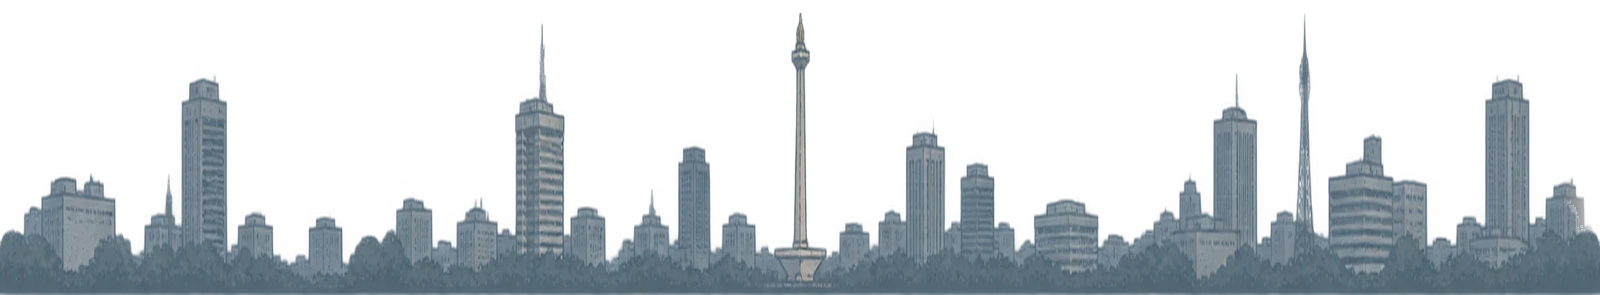
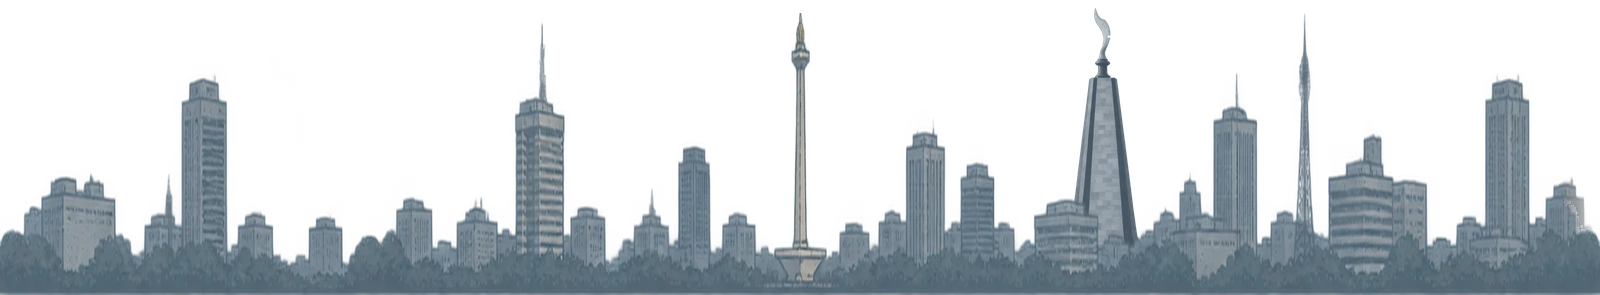
Add Codex's Tugu Kujang skyline, Kopdes and workers, plus street life
- Bring in the new office far-city layer with Tugu Kujang, the Kopdes
  ground and roof modules, and the Kopdes worker sprites from
  perf/smooth-gameplay. That branch was cut from an older main, so only
  its additions are taken; merging it directly would drop the jump and
  knockdown atlases and reset district 2's target to 70%.
- Register the worker frames in the manifest and place the Kopdes in
  district 2. Damaging it evacuates Kopdes workers.
- Streets now start with people going about their day: pairs chatting
  with speech bubbles, people waiting outside shops, vendors by carts
  and tent stalls, Kopdes workers outside the Kopdes. They panic with a
  '!' and run once Rex comes within 560 px, a nearby building is hit, or
  Rex roars, jumps or uses his ulti.
- Standing poses come from each civilian's master art; WebP copies were
  added and to-webp.py now generates them.

Claude-Session: https://claude.ai/code/session_01RxRJWDQodfYgku9wEAcckb

Changed region(s): [[0.6562, 0.061, 0.7188, 0.8237]]

diff --git a/src/world.js b/src/world.js
@@ -2,6 +2,8 @@ import { damp as ease, spritePose } from './motion.js';
 // Batasi nilai
 export const clamp = (n, low, high) => Math.max(low, Math.min(n, high));
 export const people = ['office-worker','shopper','schoolkid','elder','bakso-vendor'];
+// Pekerja yang keluar dari Kopdes
+export const kopdesWorker='kopdes-worker';
 export const heroNames = {perisai:'Perisai',rajawali:'Rajawali',jaring:'Jaring'};
 export const hints = {
   perisai:'Hindari tubrukannya, lalu sabet dengan ekor.',
@@ -67,6 +69,8 @@ const civilianHp=110;
 const slamStun={troop:4.5,hero:1.6};
 // Durasi Rex berjalan keluar layar, termasuk layar meredup
 export const exitTime=2.6;
+// Jarak Rex yang membuat warga santai panik
+const calmRadius=560;
 // Batas tentara di layar
 const squadCap=14;
 const firstUlt={perisai:8,rajawali:14,jaring:20},ultWindup=1.05;
@@ -93,7 +97,34 @@ export class World {
     // Musuh makin keras di distrik berikutnya
     this.power=1+index*.12;
     this.cast=null;this.castAt=-9;this.lastCast=-9;this.rain=null;this.heroWave=null;
+    this.populate();
     this.say(level.name+' · Hancurkan '+level.target+'% kota',3.2);
+  }
+  // Warga yang sedang beraktivitas di jalan sebelum Rex datang
+  populate(){
+    const start=this.level.start+900;let pick=0;
+    for(const [i,b] of this.buildings.entries()){
+      if(b.x<start)continue;
+      const kopdes=b.color==='kopdes',size=kopdes?2:i%3===2?0:1+(i%2);
+      // Dua orang berhadapan = mengobrol; satu orang = menunggu, belanja, atau menengok sekitar
+      const centre=b.x+range(-b.width*.25,b.width*.25);
+      for(let n=0;n<size;n++){
+        const type=kopdes?kopdesWorker:people[(pick++)%people.length],dir=size===2?(n?-1:1):Math.random()<.5?-1:1;
+        this.civilians.push({type,x:centre+(size===2?(n?34:-34):0),dir,speed:range(250,350),phase:Math.random()*5,walk:0,lane:range(8,26),
+          hp:civilianHp,max:civilianHp,stun:0,hit:0,vx:0,calm:true,chat:size===2,activity:range(0,9)});
+      }
+    }
+    // Pedagang di dekat gerobak dan warung tenda
+    for(const prop of this.props)if(prop.x>start&&(prop.type==='food-cart'||prop.type==='tent-stall'))
+      this.civilians.push({type:prop.type==='food-cart'?'bakso-vendor':people[(pick++)%people.length],x:prop.x+70,dir:-1,speed:range(250,350),phase:Math.random()*5,walk:0,lane:range(8,20),
+        hp:civilianHp,max:civilianHp,stun:0,hit:0,vx:0,calm:true,chat:false,activity:range(0,9)});
+  }
+  // Warga santai di sekitar titik ini mulai panik
+  alarmNear(x,radius){for(const c of this.civilians)if(c.calm&&Math.abs(c.x-x)<radius)this.panic(c)}
+  // Panik: berhenti beraktivitas, menjauhi Rex
+  panic(c){
+    if(!c.calm)return;c.calm=false;c.chat=false;c.alarm=.7;c.dir=c.x>=this.rex.x?1:-1;
+    c.frame=c.fromFrame='run-a';c.frameMix=1;
   }
   // Persen hancur
   get percent(){return 100*this.lost/this.total}
@@ -115,10 +146,10 @@ export class World {
     const before=moduleState(m),delta=Math.min(m.hp,damage);m.hp-=delta;this.lost+=delta;this.score+=Math.round(delta);
     this.rex.rage=clamp(this.rex.rage+delta*.065,0,100);
     if(!b.evacuated){
-      b.evacuated=true;this.sound('panic');
+      b.evacuated=true;this.sound('panic');this.alarmNear(b.x,b.width/2+520);
       for(let n=0;n<2+Math.floor(this.percent/22);n++){
         const x=b.x+range(-b.width*.35,b.width*.35);
-        this.civilians.push({type:people[(this.buildings.indexOf(b)+n)%people.length],x,dir:x>=this.rex.x?1:-1,speed:range(250,350),phase:Math.random()*5,walk:0,lane:range(6,28),hp:civilianHp,max:civilianHp,stun:0,hit:0,vx:0});
+        this.civilians.push({type:b.color==='kopdes'?kopdesWorker:people[(this.buildings.indexOf(b)+n)%people.length],x,dir:x>=this.rex.x?1:-1,speed:range(250,350),phase:Math.random()*5,walk:0,lane:range(6,28),hp:civilianHp,max:civilianHp,stun:0,hit:0,vx:0});
       }
     }
     if(before!==moduleState(m)){
@@ -164,7 +195,7 @@ export class World {
         if(!e.hero)e.stun=2.6;
         if(e.type==='rajawali'){e.mode='ground';e.timer=3.4}
       }
-      for(const c of this.civilians)c.speed=Math.min(500,c.speed+80);
+      for(const c of this.civilians){c.speed=Math.min(500,c.speed+80);if(c.calm&&c.x>=this.camera-40&&c.x<=this.camera+this.view+40)this.panic(c)}
       // Raungan memotong ulti pahlawan
       if(this.cast&&!this.cast.done&&this.cast.hero.x>=this.camera-40&&this.cast.hero.x<=this.camera+this.view+40)this.cancelCast();
       return;
@@ -201,6 +232,7 @@ export class World {
   }
   // Lukai warga
   hitCivilian(c,damage,from){
+    this.panic(c);
     c.max??=civilianHp;c.hp=(c.hp??c.max)-damage;c.hit=.2;
     if(c.hp<=0){this.knock(c,from);return}
     // Terhuyung seperti tentara
@@ -222,7 +254,7 @@ export class World {
       if(e.type==='rajawali'){e.mode='ground';e.timer=4.5}
     }
     if(this.cast&&!this.cast.done&&this.cast.hero.x>=left&&this.cast.hero.x<=right)this.cancelCast();
-    for(const c of this.civilians)if(!c.down&&c.x>=left&&c.x<=right){c.stun=Math.max(c.stun||0,1.2);c.vx=0}
+    for(const c of this.civilians)if(!c.down&&c.x>=left&&c.x<=right){this.panic(c);c.stun=Math.max(c.stun||0,1.2);c.vx=0}
     this.fx('dust',p.x-150,0,2);this.fx('dust',p.x+150,0,2);this.fx('debris',p.x,-20,4);
   }
   // Gempa ulti
@@ -444,13 +476,22 @@ export class World {
     // Warga
     for(const c of this.civilians){
       if(c.down){c.life-=dt;c.x+=c.vx*dt;c.y+=c.vy*dt;c.vy+=1500*dt;c.angle+=c.spin*dt;spritePose(c,'stumble',dt);continue}
-      c.hit=Math.max(0,(c.hit||0)-dt);
+      c.hit=Math.max(0,(c.hit||0)-dt);c.alarm=Math.max(0,(c.alarm||0)-dt);
+      if(c.calm){
+        // Rex terlalu dekat: panik
+        if(Math.abs(c.x-p.x)<calmRadius)this.panic(c);
+        else{
+          // Sesekali menoleh ke arah lain kalau tidak sedang mengobrol
+          c.activity+=dt;if(!c.chat&&c.activity>9){c.activity=0;c.dir*=-1}
+          continue;
+        }
+      }
       if(c.stun>0){c.stun-=dt;c.x+=c.vx*dt;c.vx*=Math.pow(.05,dt);spritePose(c,'stumble',dt);continue}
       c.x+=c.dir*c.speed*dt;c.walk+=c.speed*dt/28;
       const glance=(this.time+c.phase)%5>4.6,stumble=(this.time+c.phase)%8>7.8;
       spritePose(c,stumble?'stumble':glance?'look-back':Math.sin(c.walk)>=0?'run-a':'run-b',dt);
     }
-    keep(this.civilians,c=>(!c.down||c.life>0)&&c.x>this.camera-170&&c.x<this.camera+this.view+170);
+    keep(this.civilians,c=>c.calm||(!c.down||c.life>0)&&c.x>this.camera-170&&c.x<this.camera+this.view+170);
     // Efek
     for(const f of this.effects){f.life-=dt;f.x+=f.vx*dt;f.y+=f.vy*dt;if(f.kind==='debris'||f.kind==='decor')f.vy+=880*dt}
     keep(this.effects,f=>f.life>0);this.shake=Math.max(0,this.shake-dt*25);

diff --git a/src/art.js b/src/art.js
@@ -80,7 +80,7 @@ export class Art {
     const paths=Object.keys(this.meta).map(k=>k.slice(0,-4)).filter(k=>
       backdrops.includes(k)||k.startsWith('buildings/')||k.startsWith('props/')
       ||k.startsWith('characters/rex/animations/')
-      ||heroes.some(h=>k.startsWith(h))||(k.includes('/frames/')&&!k.startsWith('ui/'))||['characters/soldiers/helicopter','characters/soldiers/jeep','fx/steel-net','fx/ulti-cutin'].includes(k));
+      ||heroes.some(h=>k.startsWith(h))||(k.includes('/frames/')&&!k.startsWith('ui/'))||(k.startsWith('characters/civilians/')&&k.endsWith('/master'))||['characters/soldiers/helicopter','characters/soldiers/jeep','fx/steel-net','fx/ulti-cutin'].includes(k));
     let cursor=0;
     await Promise.all(Array.from({length:8},async()=>{while(cursor<paths.length)await this.load(paths[cursor++])}));
     await(this.rexFramesReady??=this.prepareRexFrames());
@@ -116,6 +116,16 @@ export class Art {
   sprite(c,path,x,y,width,dir=1,angle=0){
     const im=this.images.get(path);if(!im)return;
     c.save();c.translate(x,y);c.scale(dir,1);this.part(c,path,0,0,width,angle);c.restore();
+  }
+  // Lebar pose berdiri warga agar tingginya sejalan dengan frame lari
+  standingWidth(type){
+    this.standing??=new Map();
+    if(!this.standing.has(type)){
+      const run=this.meta['characters/civilians/'+type+'/frames/run-a.png'],stand=this.meta['characters/civilians/'+type+'/master.png'];
+      const height=1.08*run.bounds.height*people.civilian/run.width;
+      this.standing.set(type,height/stand.bounds.height*stand.width);
+    }
+    return this.standing.get(type);
   }
   // Baur pose
   blend(c,from,to,mix,x,y,width,dir=1,angle=0){
@@ -176,6 +186,19 @@ function rexRig(c,a,p,t,reduced,down=-1){
     }
   }
   c.restore();
+}
+// Balon obrolan kecil
+function speech(c,x,y,t,reduced){
+  c.save();c.fillStyle='#fff0ce';c.strokeStyle='#102321';c.lineWidth=3;c.lineJoin='round';
+  c.beginPath();c.ellipse(x,y,26,17,0,0,Math.PI*2);c.moveTo(x-12,y+13);c.lineTo(x-20,y+27);c.lineTo(x-2,y+15);c.fill();c.stroke();
+  c.fillStyle='#102321';
+  for(let i=0;i<3;i++){const lift=reduced?0:Math.max(0,Math.sin(t*6-i*.9))*3;c.beginPath();c.arc(x-11+i*11,y-lift,3,0,Math.PI*2);c.fill()}
+  c.restore();
+}
+// Tanda seru saat mulai panik
+function exclaim(c,x,y,k){
+  c.save();c.globalAlpha=clamp(k*2,0,1);c.font='42px Bangers,Impact,sans-serif';c.textAlign='center';c.textBaseline='bottom';
+  c.lineJoin='round';c.lineWidth=7;c.strokeStyle='#102321';c.strokeText('!',x,y-(1-k)*12);c.fillStyle='#ffd45c';c.fillText('!',x,y-(1-k)*12);c.restore();
 }
 // Gambar pahlawan
 function heroRig(c,a,e){
@@ -343,7 +366,15 @@ export class Renderer {
         // Berputar di sekitar badan, bukan di kaki
         c.save();c.globalAlpha=clamp(civ.life/.35,0,1);c.translate(civ.x,civ.lane+civ.y-42);if(!reduced)c.rotate(civ.angle);
         a.blend(c,base+(civ.fromFrame||frame),base+frame,civ.frameMix??1,0,42,people.civilian,civ.dir);c.restore();continue}
+      if(civ.calm){
+        // Beraktivitas: pose berdiri, napas pelan, balon obrolan bila berdua
+        const breathe=reduced?0:Math.sin(t*2.2+civ.phase)*1.2;
+        a.sprite(c,'characters/civilians/'+civ.type+'/master',civ.x,civ.lane+breathe*.3,a.standingWidth(civ.type),civ.dir);
+        if(civ.chat&&civ.dir>0&&(t+civ.phase)%4<2.4)speech(c,civ.x+30,civ.lane-118,t,reduced);
+        continue;
+      }
       const recoil=civ.hit>0&&!reduced?-civ.dir*Math.sin(clamp(civ.hit/.2,0,1)*Math.PI)*4:0;
+      if(civ.alarm>0)exclaim(c,civ.x,civ.lane-112,civ.alarm/.7);
       a.blend(c,base+(civ.fromFrame||frame),base+frame,civ.frameMix??1,civ.x+recoil,civ.lane-(civ.stun>0?0:Math.sin(civ.walk)**2*3),people.civilian,civ.dir);
     }
     // Proyektil

diff --git a/tools/to-webp.py b/tools/to-webp.py
@@ -8,8 +8,11 @@ from PIL import Image
 ASSETS = Path(__file__).resolve().parent.parent / "assets"
 # Dilewati
 SKIPPED = re.compile(r"(^ui/|(master|sheet)\.png$)")
-# Sampul menu
-EXTRA = ["characters/rex/master.png"]
+# Sampul menu, plus pose berdiri warga untuk aktivitas di jalan
+EXTRA = ["characters/rex/master.png"] + [
+    f"characters/civilians/{name}/master.png"
+    for name in ("office-worker", "shopper", "schoolkid", "elder", "bakso-vendor", "kopdes-worker")
+]
 
 
 def main():

diff --git a/README.md b/README.md
@@ -94,6 +94,8 @@ Tentara datang beregu dari depan dan belakang sampai 14 orang di layar (bertamba
   <img src="assets/characters/civilians/bakso-vendor/master.png" alt="Pedagang bakso" height="96">
 </p>
 
+Sebelum Rex datang, warga beraktivitas di jalan: mengobrol berdua, menunggu di depan toko, atau berjualan di dekat gerobak dan warung tenda. Begitu Rex mendekat, bangunan di dekat mereka diserang, atau Rex meraung, melompat, atau memakai ulti, mereka panik dan lari. Di Pusat Kota ada bangunan Kopdes Merah Putih yang mengeluarkan para pekerjanya saat diserang, dengan Tugu Kujang di kejauhan.
+
 Warga sipil berlarian panik dan tidak menyerang, tapi bisa dikalahkan seperti tentara: serangan pertama membuat mereka terhuyung, serangan kedua melempar mereka keluar layar. Ulti Rex langsung menjatuhkan semua warga di layar. Tiap warga menambah skor dan sedikit Rage.
 
 ## 🏙 Empat distrik
